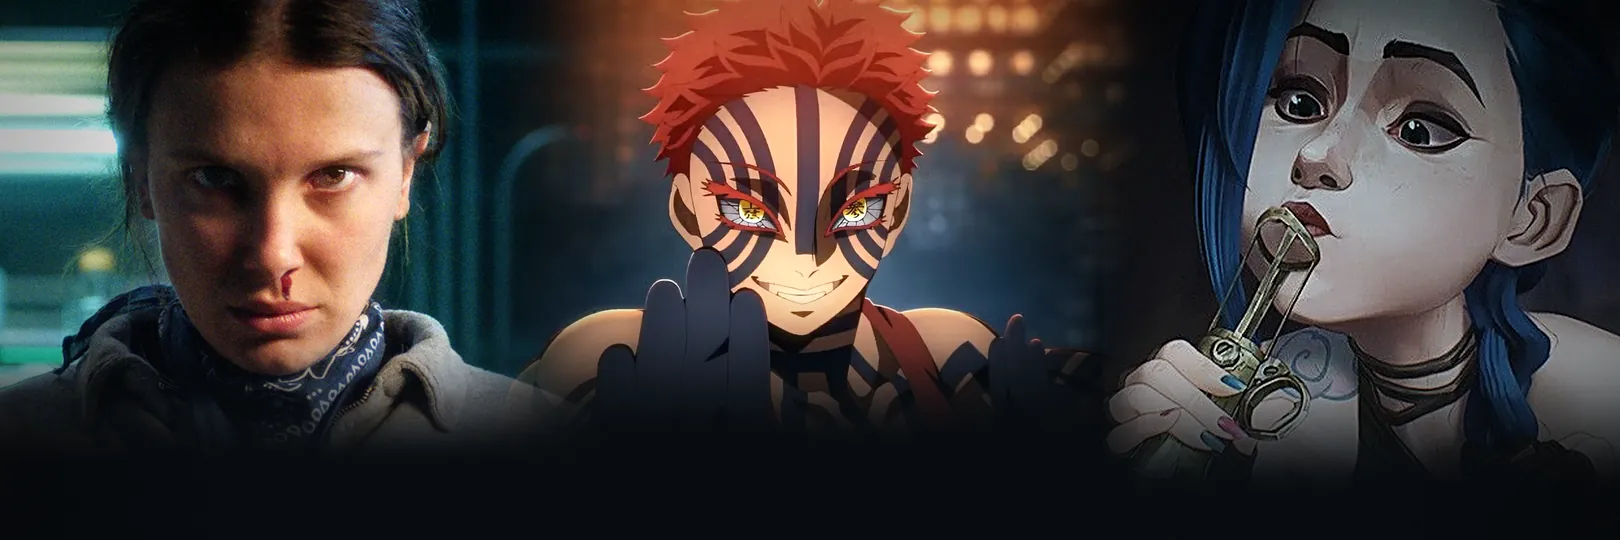
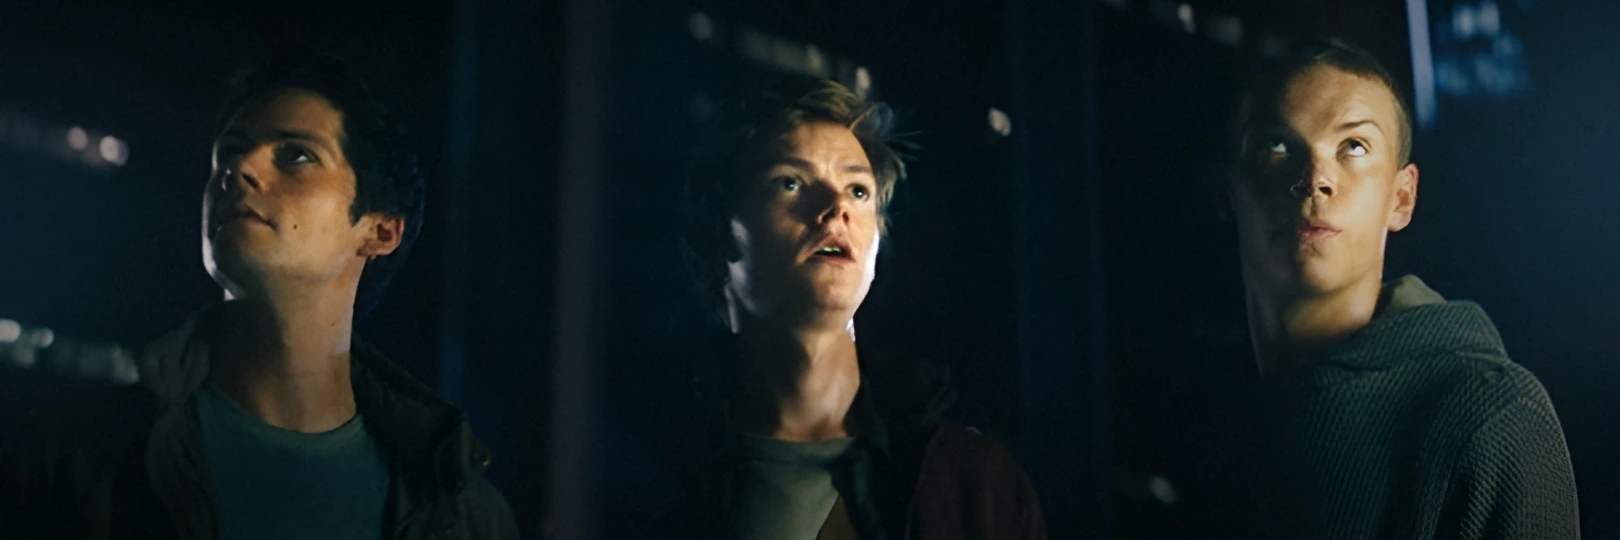
feat(ui): the Fast Scan notice scans Thomas, Newt and Gally
The notice now opens on one scene instead of three pictures melted together:
the owner's enhanced still of Thomas, Newt and Gally, under one night grade.
The three stood too far apart for a 3:1 picture, so the dark building between
them is taken out; same scale and light, faces about 1.7 times bigger.

The scan is this picture's real one. The boxes are what YuNet, the detector
Fast Scan runs, found here (0.87 to 0.92), with a little room around them. A
fine mesh follows each face, placed by hand because a five-point fit shears on
a turned head; it lives in public/fast-scan-notice-mesh.svg. Each face carries
its name.

A gold line now runs along the shot once as the notice opens. The faces come
up behind it, each as the line reaches the gold frame under it, so the ruler
and the faces tell one story. With reduced motion all of it is simply there.
The ruler has 65 frames so that a frame falls under each of the three.

The dashed "less sure" corners are gone: all three are found here, and the
notice says what the cost is in words. The corners and names sit outside the
fade, so they stay at full strength.

Verified: FastScanNotice, UpdateDialog and reduced-motion tests 16 of 16, tsc,
oxlint on both files; the real dialog in the mock on GTX 1060, Iris Xe,
processor only and Apple M2 in headless Edge at 2x, and paused mid-sweep. Frames
measured at 96.6, 270 and 443.4 under faces at 96.5, 270 and 444.

Not verified: the real app; other languages (the picture holds no words, the
[…]

diff --git a/app/src/components/shell/FastScanNotice.tsx b/app/src/components/shell/FastScanNotice.tsx
@@ -226,35 +226,53 @@ export function FastScanNotice() {
 }
 
 /**
- * Where the faces are in `public/fast-scan-notice.webp`, in the dialog's own
- * 540×180: live action and anime Fast Scan is sure of, and a painted 3D face
- * it is not, which is the cost it pays and why 3D animation keeps the full scan.
+ * Who is in `public/fast-scan-notice.webp`, in the dialog's own 540×180: the
+ * boxes YuNet, Fast Scan's own detector, found in this picture, with a little
+ * room around them. `public/fast-scan-notice-mesh.svg` follows the same faces.
  */
 const FACES = [
-  { x: 41, y: 12, w: 82, h: 100, sure: true },
-  { x: 223, y: 9, w: 86, h: 98, sure: true },
-  { x: 404, y: 10, w: 92, h: 94, sure: false },
+  { name: "Thomas", x: 68, y: 27, w: 57, h: 71 },
+  { name: "Newt", x: 241, y: 36, w: 58, h: 70 },
+  { name: "Gally", x: 416, y: 19, w: 56, h: 79 },
 ]
 /** A shot's frames along the picture's foot, and the few Fast Scan looks at (one a second): each sits under a face. */
-const FRAMES = 64
-const LOOKS = new Set([7, 31, 55])
+const FRAMES = 65
+const LOOKS = new Set([9, 32, 55])
+/** The ruler's inset, in the picture's width. */
+const RULER_INSET = 0.052
+/** When the sweep passes a frame, as `--animate-scan-sweep` runs it: 200 ms in, 900 ms across. */
+const sweepReaches = (frame: number) =>
+  Math.round(200 + 900 * (RULER_INSET + ((1 - 2 * RULER_INSET) * frame) / (FRAMES - 1)))
 
 /**
- * The picture: a still with the faces Fast Scan finds (one only half sure),
- * fading into the glass, and along its foot a shot's frames as a ruler, the
- * ones it looks at in gold.
+ * The picture: a still fading into the glass and, along its foot, a shot's
+ * frames as a ruler, the ones Fast Scan looks at in gold. A line runs along the
+ * shot once; behind it the faces it found come up, each over its gold frame.
  */
 function Art() {
   return (
     <div aria-hidden className="relative aspect-[3/1] w-full shrink-0 overflow-hidden">
       <div className="absolute inset-0 [mask-image:linear-gradient(180deg,#000_45%,transparent_100%)]">
         <img src="/fast-scan-notice.webp" alt="" className="absolute inset-0 size-full object-cover" />
-        <svg viewBox="0 0 540 180" preserveAspectRatio="xMidYMid slice" className="absolute inset-0 size-full">
+      </div>
+      <div className="absolute inset-0 motion-safe:animate-scan-wipe">
+        <img src="/fast-scan-notice-mesh.svg" alt="" className="absolute inset-0 size-full" />
+        <svg viewBox="0 0 540 180" className="absolute inset-0 size-full">
           {FACES.map((f) => (
-            <Corners key={f.x} {...f} />
+            <Corners key={f.name} {...f} />
           ))}
         </svg>
+        {FACES.map((f) => (
+          <span
+            key={f.name}
+            className="absolute -translate-x-1/2 rounded-[5px] bg-black/60 px-1.5 text-2xs font-medium text-white/90"
+            style={{ left: `${((f.x + f.w / 2) / 540) * 100}%`, top: `${((f.y + f.h + 4) / 180) * 100}%` }}
+          >
+            {f.name}
+          </span>
+        ))}
       </div>
+      <span className="absolute inset-y-0 w-px bg-gradient-to-b from-transparent via-accent to-accent opacity-0 shadow-[0_0_10px_rgb(224_180_92/0.7)] motion-safe:animate-scan-sweep" />
       {/* In percent, so a narrow window keeps each gold frame under its face. */}
       <div className="absolute inset-x-[5.2%] bottom-3 flex h-3 items-end justify-between">
         {Array.from({ length: FRAMES }, (_, i) =>
@@ -263,7 +281,7 @@ function Art() {
               key={i}
               data-look
               className="h-3 w-[2px] rounded-full bg-accent shadow-[0_0_8px_rgb(224_180_92/0.7)] motion-safe:animate-[fade-in_400ms_var(--ease-out)_backwards]"
-              style={{ animationDelay: `${200 + i * 9}ms` }}
+              style={{ animationDelay: `${sweepReaches(i)}ms` }}
             />
           ) : (
             <span key={i} className="h-1.5 w-px bg-white/25" />
@@ -274,27 +292,24 @@ function Art() {
   )
 }
 
-/** The app's way of marking a found face: gold corners, or thin dashed white ones where it is less sure. */
-function Corners({ x, y, w, h, sure }: { x: number; y: number; w: number; h: number; sure: boolean }) {
-  const l = 11
+/** The app's way of marking a found face: gold corners. */
+function Corners({ x, y, w, h }: { x: number; y: number; w: number; h: number }) {
+  const l = 9
   const d = [
     `M${x} ${y + l}V${y}H${x + l}`,
     `M${x + w - l} ${y}H${x + w}V${y + l}`,
     `M${x + w} ${y + h - l}V${y + h}H${x + w - l}`,
     `M${x + l} ${y + h}H${x}V${y + h - l}`,
   ].join("")
-  return sure ? (
+  return (
     <path
       d={d}
       fill="none"
       stroke="var(--accent)"
-      strokeWidth={2}
+      strokeWidth={1.5}
       strokeLinecap="round"
       strokeLinejoin="round"
       style={{ filter: "drop-shadow(0 0 3px rgb(224 180 92 / 0.6))" }}
     />
-  ) : (
-    // Found, but less surely: the cost Fast Scan pays, shown and not only said.
-    <path d={d} fill="none" stroke="rgb(255 255 255 / 0.85)" strokeWidth={1.5} strokeDasharray="3 3.5" strokeLinecap="round" />
   )
 }

diff --git a/app/src/styles/index.css b/app/src/styles/index.css
@@ -97,6 +97,8 @@
   --animate-indeterminate: indeterminate 1.4s var(--ease-in-out) infinite;
   --animate-pop-in: pop-in var(--dur-med) var(--ease-out);
   --animate-sheet-in: sheet-in var(--dur-slow) var(--ease-out);
+  --animate-scan-wipe: scan-wipe 900ms linear 200ms backwards;
+  --animate-scan-sweep: scan-sweep 900ms linear 200ms backwards;
 }
 
 @keyframes pop-in {
@@ -148,6 +150,30 @@
   }
   to {
     opacity: 1;
+  }
+}
+
+@keyframes scan-wipe {
+  from {
+    clip-path: inset(0 100% 0 0);
+  }
+  to {
+    clip-path: inset(0);
+  }
+}
+
+@keyframes scan-sweep {
+  from {
+    left: 0;
+    opacity: 0;
+  }
+  8%,
+  92% {
+    opacity: 1;
+  }
+  to {
+    left: 100%;
+    opacity: 0;
   }
 }
 

diff --git a/app/src/components/shell/FastScanNotice.test.tsx b/app/src/components/shell/FastScanNotice.test.tsx
@@ -382,6 +382,8 @@ describe("FastScanNotice", { timeout: 30_000 }, () => {
       expect(dialog.textContent).toContain(device)
       expect(dialog.textContent).not.toContain("CC BY")
       expect(dialog.querySelector("img")?.getAttribute("src")).toBe("/fast-scan-notice.webp")
+      expect(dialog.querySelectorAll("[data-look]")).toHaveLength(3)
+      for (const name of ["Thomas", "Newt", "Gally"]) expect(dialog.textContent).toContain(name)
       expect(dialog.textContent).toContain("3D animation keeps the full scan. You can change the default any time in Settings.")
       cleanup()
       queryClient.clear()
